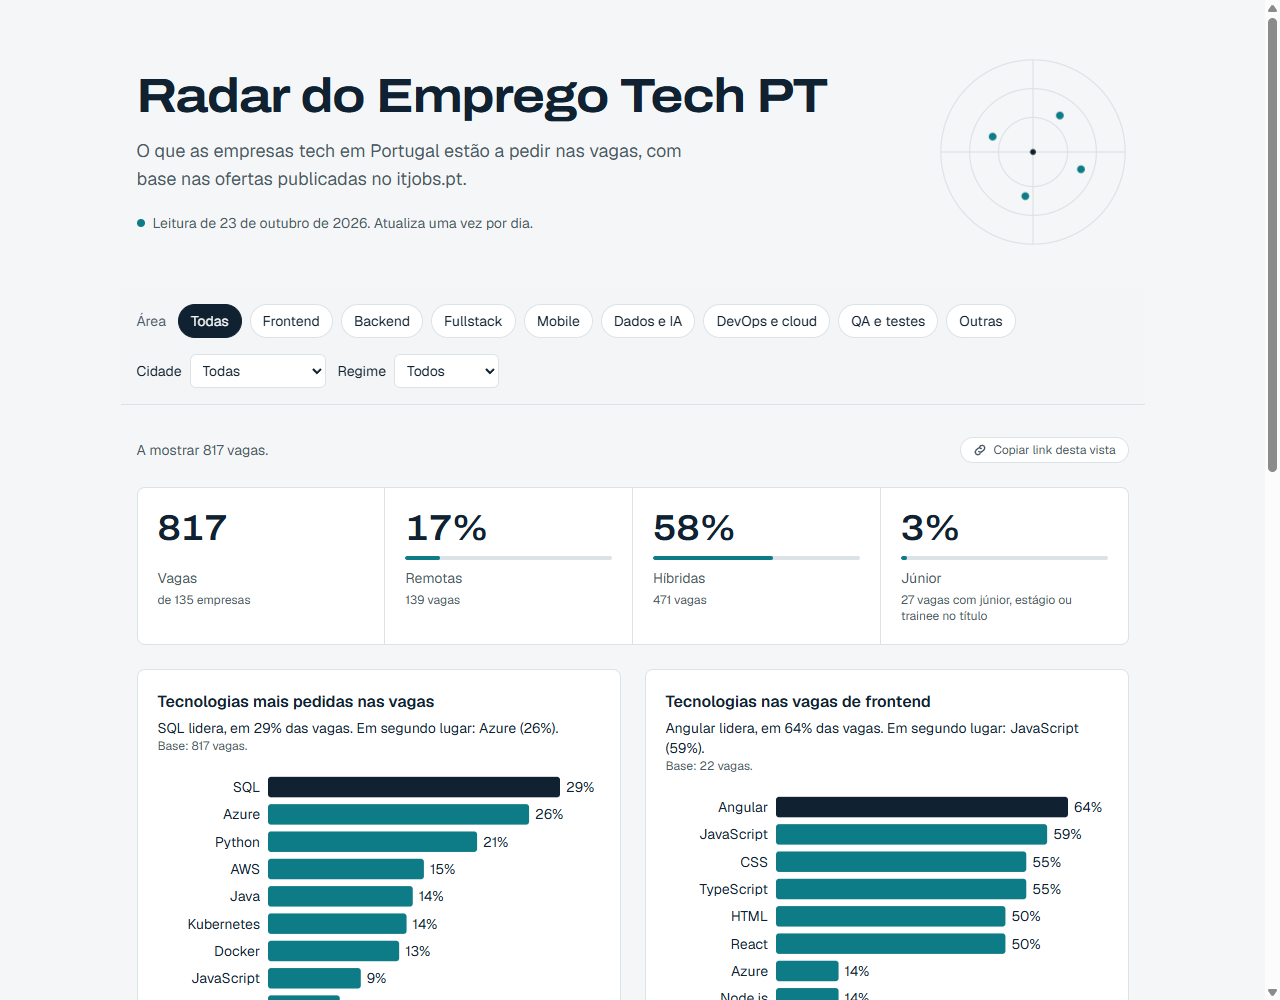
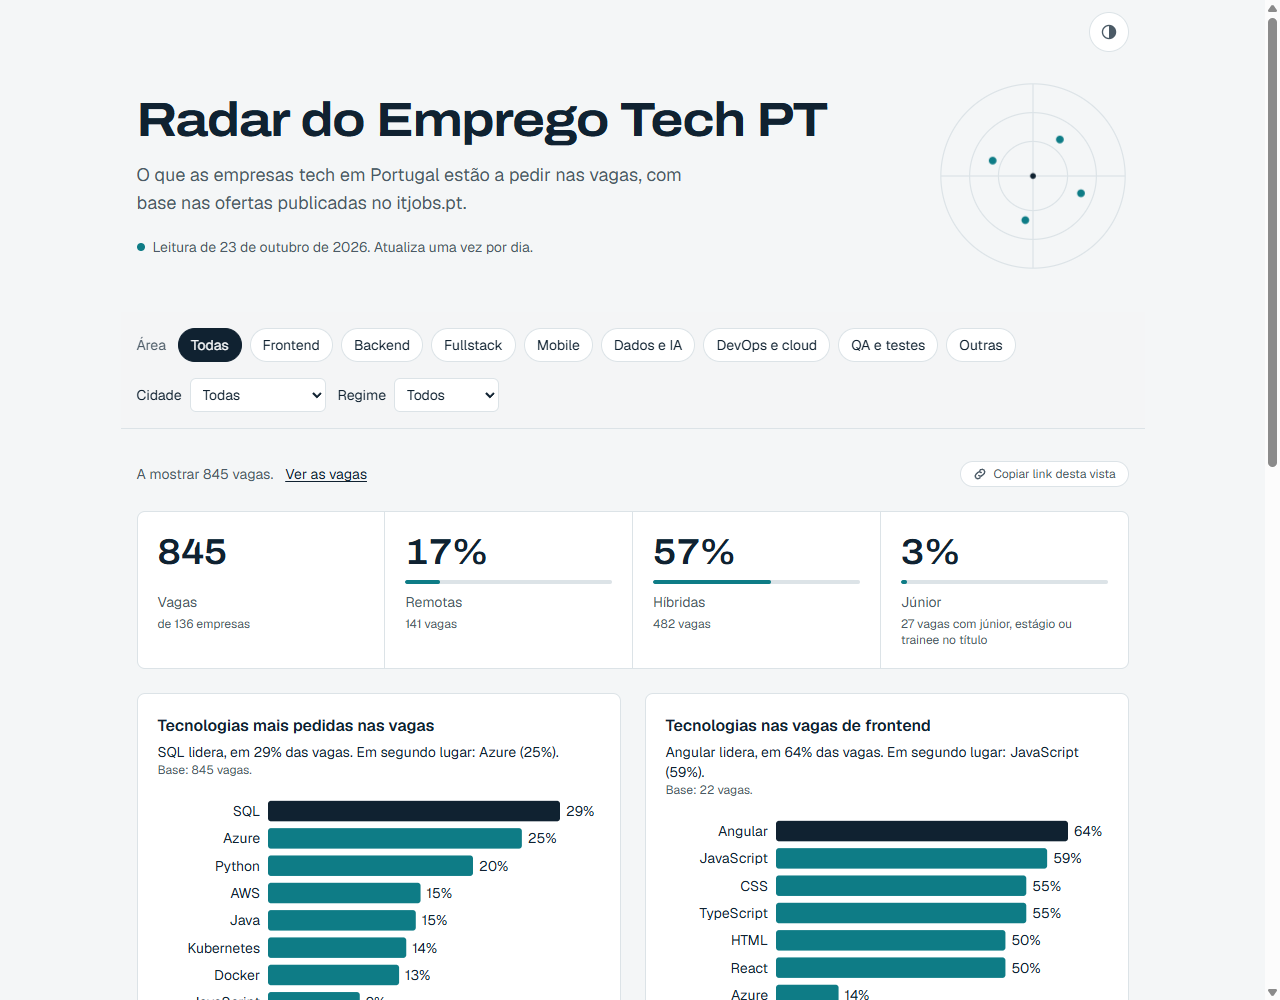
README com a lista de vagas e o tema, e print novo

diff --git a/README.md b/README.md
@@ -20,6 +20,11 @@ remote, hybrid or on-site. It uses real, daily-updated data from the [itjobs.pt]
   shows percentages with the number of jobs behind them.
 - A technology explorer: pick a technology, or click its bar, to see what the same job ads also ask for
   ("Quem pede React também pede JavaScript em 54% dos casos"), with a link to those jobs on itjobs.pt.
+- "Ver as vagas" opens the jobs behind the numbers, newest first and ten at a time, each linking to its ad
+  on itjobs.pt. The list follows the filters, so "4 vagas em Braga, híbridas" really shows those four.
+- Light and dark themes: the page follows the system until the visitor picks one, and the pick is applied
+  before the first paint, so the wrong theme never flashes. Phone browsers that force their own dark mode
+  are told the page already has one.
 - A "how the data is handled" section explains the rules and their limits.
 
 ## How it works
@@ -38,10 +43,11 @@ remote, hybrid or on-site. It uses real, daily-updated data from the [itjobs.pt]
 
 ## Accessibility
 
-Lighthouse scores 100 in light and dark mode, on desktop and mobile. Beyond that it was checked by hand:
-keyboard-only use, Windows high contrast mode, a 320px wide screen and the heading structure. Each chart has
-an `h2` and a visually hidden table with the same data; filter buttons expose their state with
-`aria-pressed`, and the job count is announced to screen readers when the filters change.
+Lighthouse scores 100 in light and dark mode, on desktop and mobile. Beyond that it was checked by hand
+against WCAG 2.2 AA: keyboard-only use, Windows high contrast mode, a 320px wide screen, larger text spacing
+and the heading structure. Each chart has an `h2` and a visually hidden table with the same data; filter
+and theme buttons expose their state with `aria-pressed`, the job count is announced to screen readers when
+the filters change, and the chart tooltip closes with Escape.
 
 ## Stack
 
@@ -60,5 +66,6 @@ Without an API key, or if the API fails, the page falls back to sample data and 
 
 ## Data
 
-Data from [itjobs.pt](https://www.itjobs.pt), used with their permission. Only aggregated numbers are shown;
-individual job ads are not republished.
+Data from [itjobs.pt](https://www.itjobs.pt), used with their permission. The charts show aggregated numbers.
+The job list shows only each ad's title, company, place and date, and links to the original ad on itjobs.pt;
+the text of the ads is not republished.
